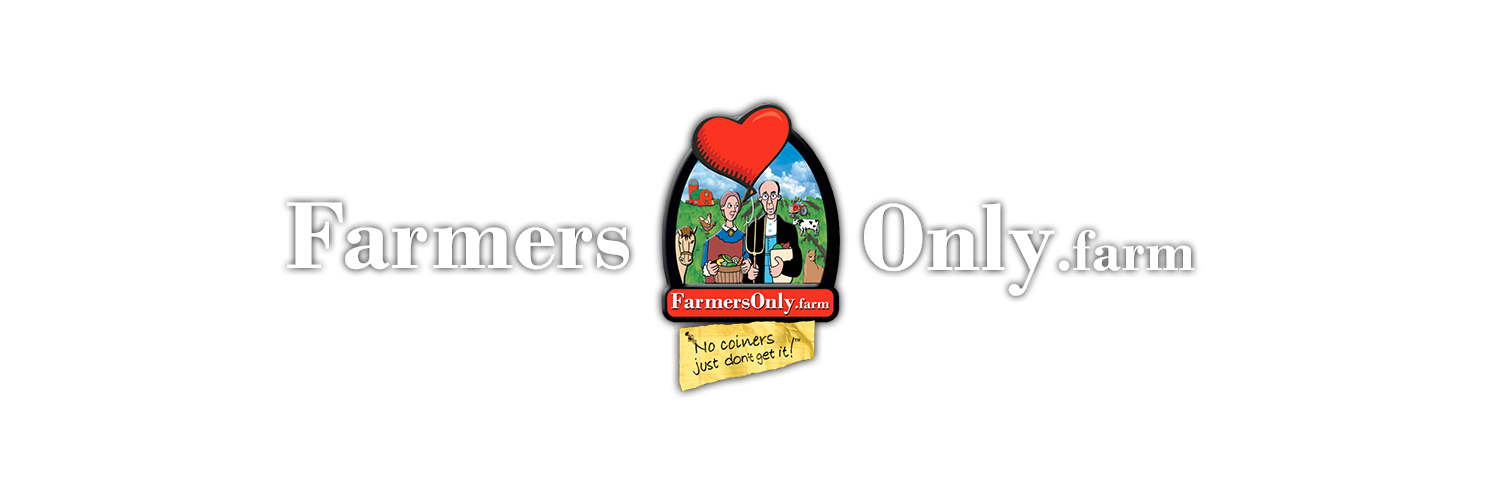
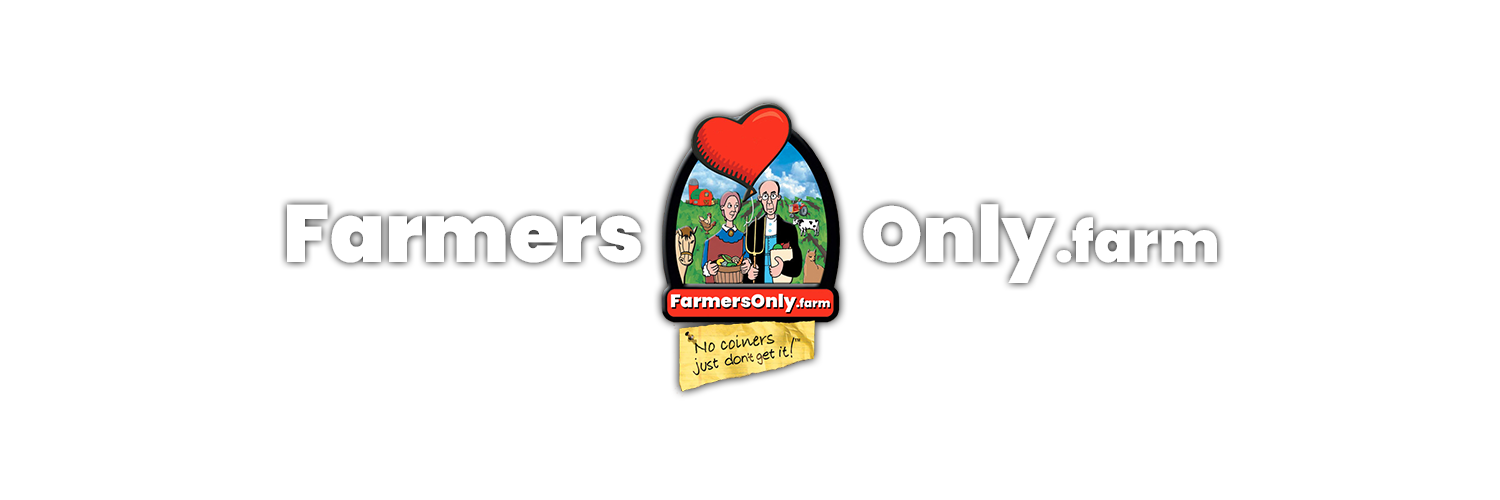
init

Changed region(s): [[0.552, 0.39, 0.828, 0.6], [0.184, 0.39, 0.4293, 0.57], [0.4293, 0.57, 0.552, 0.63]]

diff --git a/src/views/Farms/components/Hero.tsx b/src/views/Farms/components/Hero.tsx
@@ -16,22 +16,28 @@ const Blurb = styled(Text)`
   font-weight: 600;
 `
 
-const StyledHero = styled.div`
-  background-image: url('');
+let StyledHero
+
+
+const Hero = ({tokenMode,dividendsMode}) => {
+  const TranslateString = useI18n()
+  if (!dividendsMode) {
+
+    StyledHero = styled.div`
+  background-image: url('/images/egg/banner-bg.png');
   background-repeat: no-repeat;
   background-size: cover;
-  padding-bottom: 0px;
+  padding-bottom: 17px;
   padding-top: 32px;
-  margin-bottom: 0px;
+  margin-bottom: -12px;
 `
-const Hero = ({tokenMode}) => {
-  const TranslateString = useI18n()
 
   return (
     <StyledHero>
       <Container>
-        <Heading as="h1" size="lg" mb="12px" color="#FFFFFF" >
-          {TranslateString(999, 'Yield Farming starts at block #IDK')}
+        <Heading as="h1" size="lg" mb="12px" color="#FFFFFF" >{
+            TranslateString(999, 'Yield Farming starts at block #IDK')
+        }
         </Heading>
         <Text color="#FFFFFF" >{TranslateString(999, 'But you can already stake your tokens!')}
         </Text>
@@ -43,15 +49,45 @@ const Hero = ({tokenMode}) => {
           {TranslateString(999, 'At block #19070000')}
         </Heading> */}
         <Title color="#FFFFFF" style={{ textAlign: 'center' }}>{
-          tokenMode ?
+          !tokenMode ?
             TranslateString(10002, 'Stake tokens to earn CORN')
             :
-          TranslateString(320, 'Stake LP tokens to earn CORN')
+            TranslateString(999, 'Stake LP tokens to earn CORN')
+          
         }</Title>
-        <Blurb color="#FFFFFF" style={{ textAlign: 'center' }}>{TranslateString(10000, 'Deposit fees will be used accordingly with the community')}</Blurb>
+        <Blurb color="#FFFFFF" style={{ textAlign: 'center' }}>{TranslateString(10000, 'Deposit fees will be used to buyback CORN')}</Blurb>
       </Container>
     </StyledHero>
   )
 }
+
+StyledHero = styled.div`
+  background-image: url('/images/egg/banner-bg1.png');
+  background-repeat: no-repeat;
+  background-size: cover;
+  padding-bottom: 17px;
+  padding-top: 44px;
+  margin-bottom: -12px;
+`
+
+  return (
+    <StyledHero>
+      <Container>
+        {/* <Heading as="h1" size="lg" mb="12px" color="#fb3321" >
+          {TranslateString(999, 'Yield Farming started!')}
+        </Heading>
+        <Heading as="h1" size="sm" mb="27px" color="#fb3321" >
+          {TranslateString(999, 'At block #19070000')}
+        </Heading> */}
+        <Title color="#FFFFFF" style={{ textAlign: 'center' }}>{
+            TranslateString(999, 'CORN Dividends')
+          
+        }</Title>
+        <Blurb color="#FFFFFF" style={{ textAlign: 'center' }}>{TranslateString(999, 'Stake CORN to earn new tokens')}</Blurb>
+      </Container>
+    </StyledHero>
+  )
+}
+
 
 export default Hero

diff --git a/src/views/Farms/Farms.tsx b/src/views/Farms/Farms.tsx
@@ -20,6 +20,7 @@ import Divider from './components/Divider'
 
 export interface FarmsProps{
   tokenMode?: boolean
+  dividendsMode?: boolean
 }
 
 const Farms: React.FC<FarmsProps> = (farmsProps) => {
@@ -30,6 +31,7 @@ const Farms: React.FC<FarmsProps> = (farmsProps) => {
   const bnbPrice = usePriceBnbBusd()
   const { account, ethereum }: { account: string; ethereum: provider } = useWallet()
   const {tokenMode} = farmsProps;
+  const {dividendsMode} = farmsProps;
 
   const dispatch = useDispatch()
   const { fastRefresh } = useRefresh()
@@ -106,9 +108,11 @@ const Farms: React.FC<FarmsProps> = (farmsProps) => {
     [account, cakePrice, ethereum, bnbPrice],
   )
 
+  if (!dividendsMode) {
+
   return (
     <>
-    <Hero tokenMode={tokenMode}/>
+    <Hero tokenMode={tokenMode} dividendsMode={dividendsMode}/>
     <Page>
       {/* <Heading as="h1" size="lg" color="primary" mb="50px" style={{ textAlign: 'center' }}>
         {
@@ -137,6 +141,50 @@ const Farms: React.FC<FarmsProps> = (farmsProps) => {
       </Page>
       </>
   )
+  }
+
+
+  return (
+    <>
+    <Hero tokenMode={tokenMode} dividendsMode={dividendsMode}/>
+    <Page>
+      {/* <Heading as="h1" size="lg" color="primary" mb="50px" style={{ textAlign: 'center' }}>
+        {
+          tokenMode ?
+            TranslateString(10002, 'Stake tokens to earn CORN')
+            :
+          TranslateString(320, 'Stake LP tokens to earn CORN')
+        }
+      </Heading>
+      <Heading as="h2" color="secondary" mb="50px" style={{ textAlign: 'center' }}>
+        {TranslateString(10000, 'Deposit Fee will be used to buyback CORN')}
+      </Heading> */}
+      {/* <FarmTabButtons stakedOnly={stakedOnly} setStakedOnly={setStakedOnly}/> */}
+      <div>
+        {/* <Divider /> */}
+        <FlexLayout>
+        {/* <FarmCard
+          key={0}
+          farm={farm}
+          removed={removed}    MODIFICA QUESTO XXXX
+          bnbPrice={bnbPrice}
+          cakePrice={cakePrice}
+          ethereum={ethereum}
+          account={account}
+        /> */}
+          {/* <Route exact path={`${path}`}>
+            {stakedOnly ? farmsList(stakedOnlyFarms, false) : farmsList(activeFarms, false)}
+          </Route>
+          <Route exact path={`${path}/history`}>
+            {farmsList(inactiveFarms, true)}
+          </Route> */}
+        </FlexLayout>
+      </div>
+      {/* <Image src="/images/egg/LogoTextNewDark.png" alt="illustration" width={1218} height={198} responsive /> */}
+      </Page>
+      </>
+  )
+
 }
 
 export default Farms

diff --git a/public/index.html b/public/index.html
@@ -8,6 +8,7 @@
     <link rel="preconnect" href="%REACT_APP_NODE_3%" />
     <link rel="preconnect" href="https://fonts.gstatic.com" />
     <link href="https://fonts.googleapis.com/css2?family=Kanit:wght@400;600&display=swap" rel="stylesheet" />
+	<link href="https://fonts.googleapis.com/css2?family=Poppins:ital,wght@0,200;0,500;0,900;1,200&display=swap" rel="stylesheet" />
     <link rel="shortcut icon" href="%PUBLIC_URL%/favicon.ico" />
     <link rel="apple-touch-icon" href="%PUBLIC_URL%/logo.png" />
     <link rel="manifest" href="%PUBLIC_URL%/manifest.json" />

diff --git a/src/components/Menu/config.ts b/src/components/Menu/config.ts
@@ -35,16 +35,16 @@ const config: MenuEntry[] = [
     icon: 'PoolIcon',
     href: '/pools',
   },
-  /* {
-     label: 'Lottery', // XXXXSOON
-     icon: 'TicketIcon',
-     href: '/lottery',
+  {
+     label: 'Dividends', // XXXXSOON
+     icon: 'BondsIcon',
+     href: '/dividends',
   },
   {
      label: 'NFT (Coming Soon)', // XXXXSOON
      icon: 'NftIcon',
      href: '/nft',
-  }, */
+  },
   {
     label: 'Info',
     icon: 'InfoIcon',

diff --git a/src/App.tsx b/src/App.tsx
@@ -52,6 +52,9 @@ const App: React.FC = () => {
             <Route path="/pools">
               <Farms tokenMode/>
             </Route>
+			<Route path="/dividends">
+              <Farms dividendsMode/>
+            </Route>
             <Route path="/vaults">
              <Vaults />
             </Route>

diff --git a/src/style/Global.tsx b/src/style/Global.tsx
@@ -9,7 +9,7 @@ declare module 'styled-components' {
 
 const GlobalStyle = createGlobalStyle`
   * {
-  font-family: "Nasty", cursive;
+  font-family: "Poppins", sans-serif;
   font-style: normal;
   font-weight: 200;
   font-display: swap;
